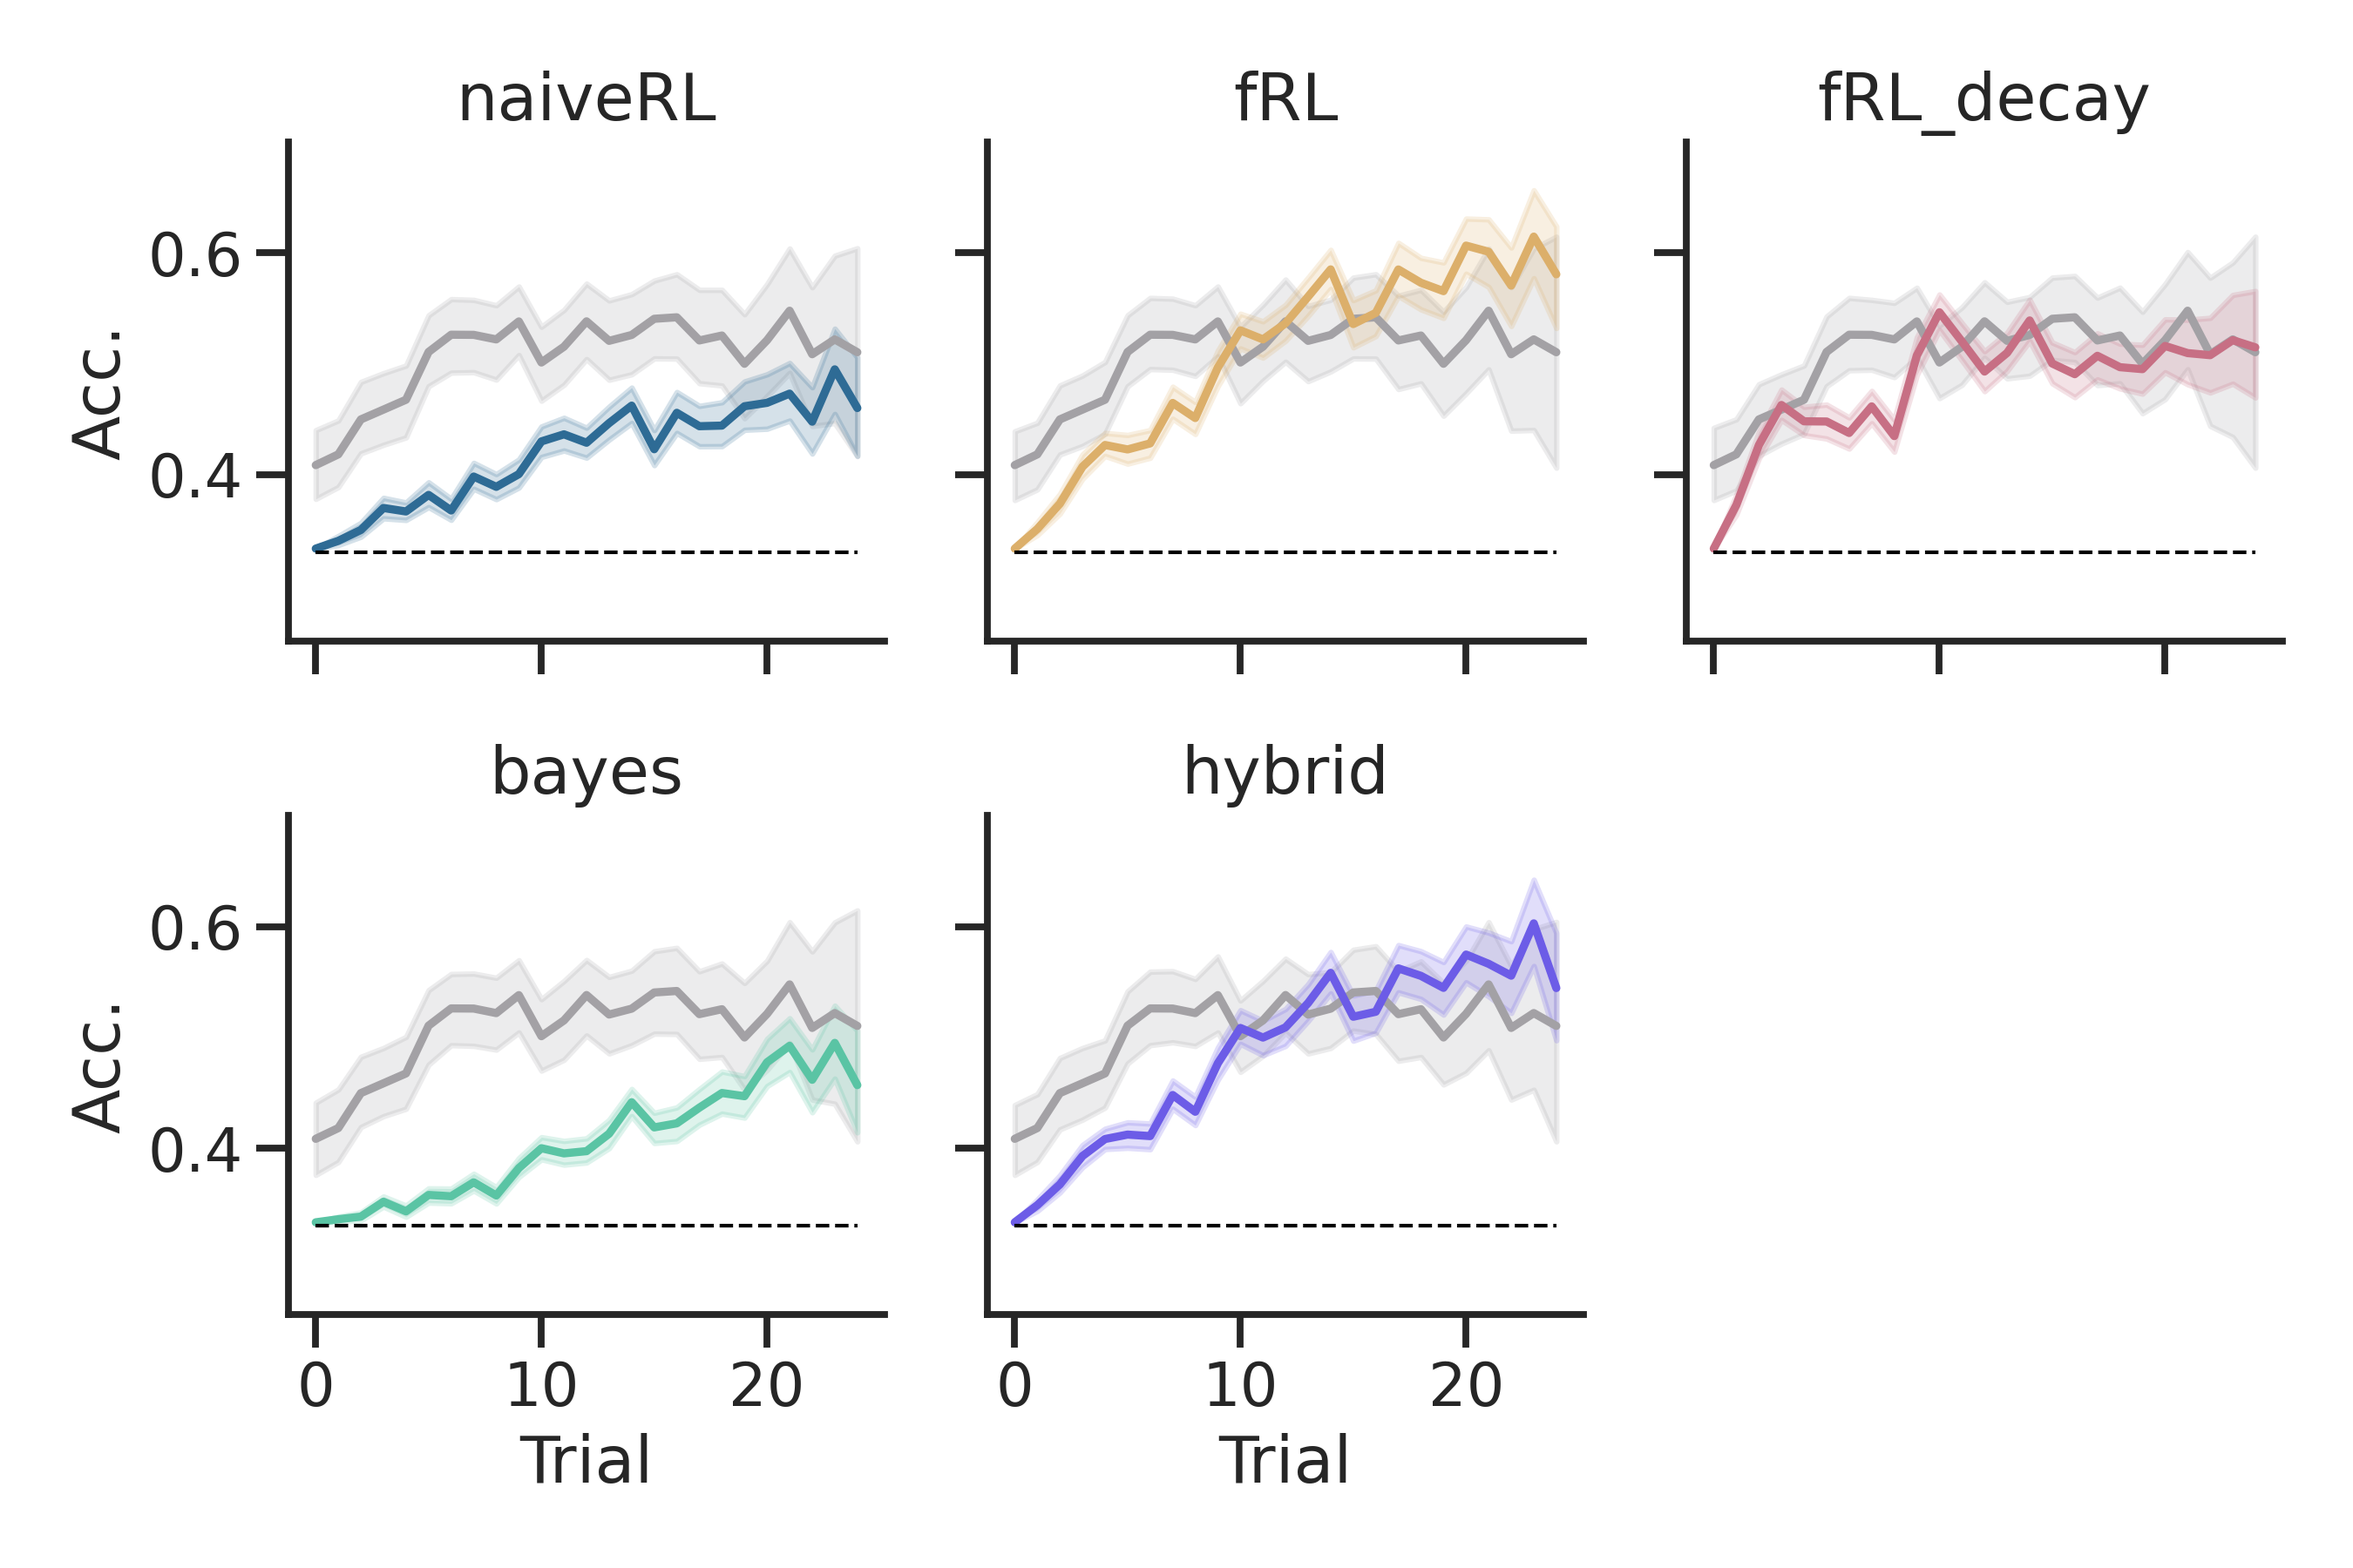
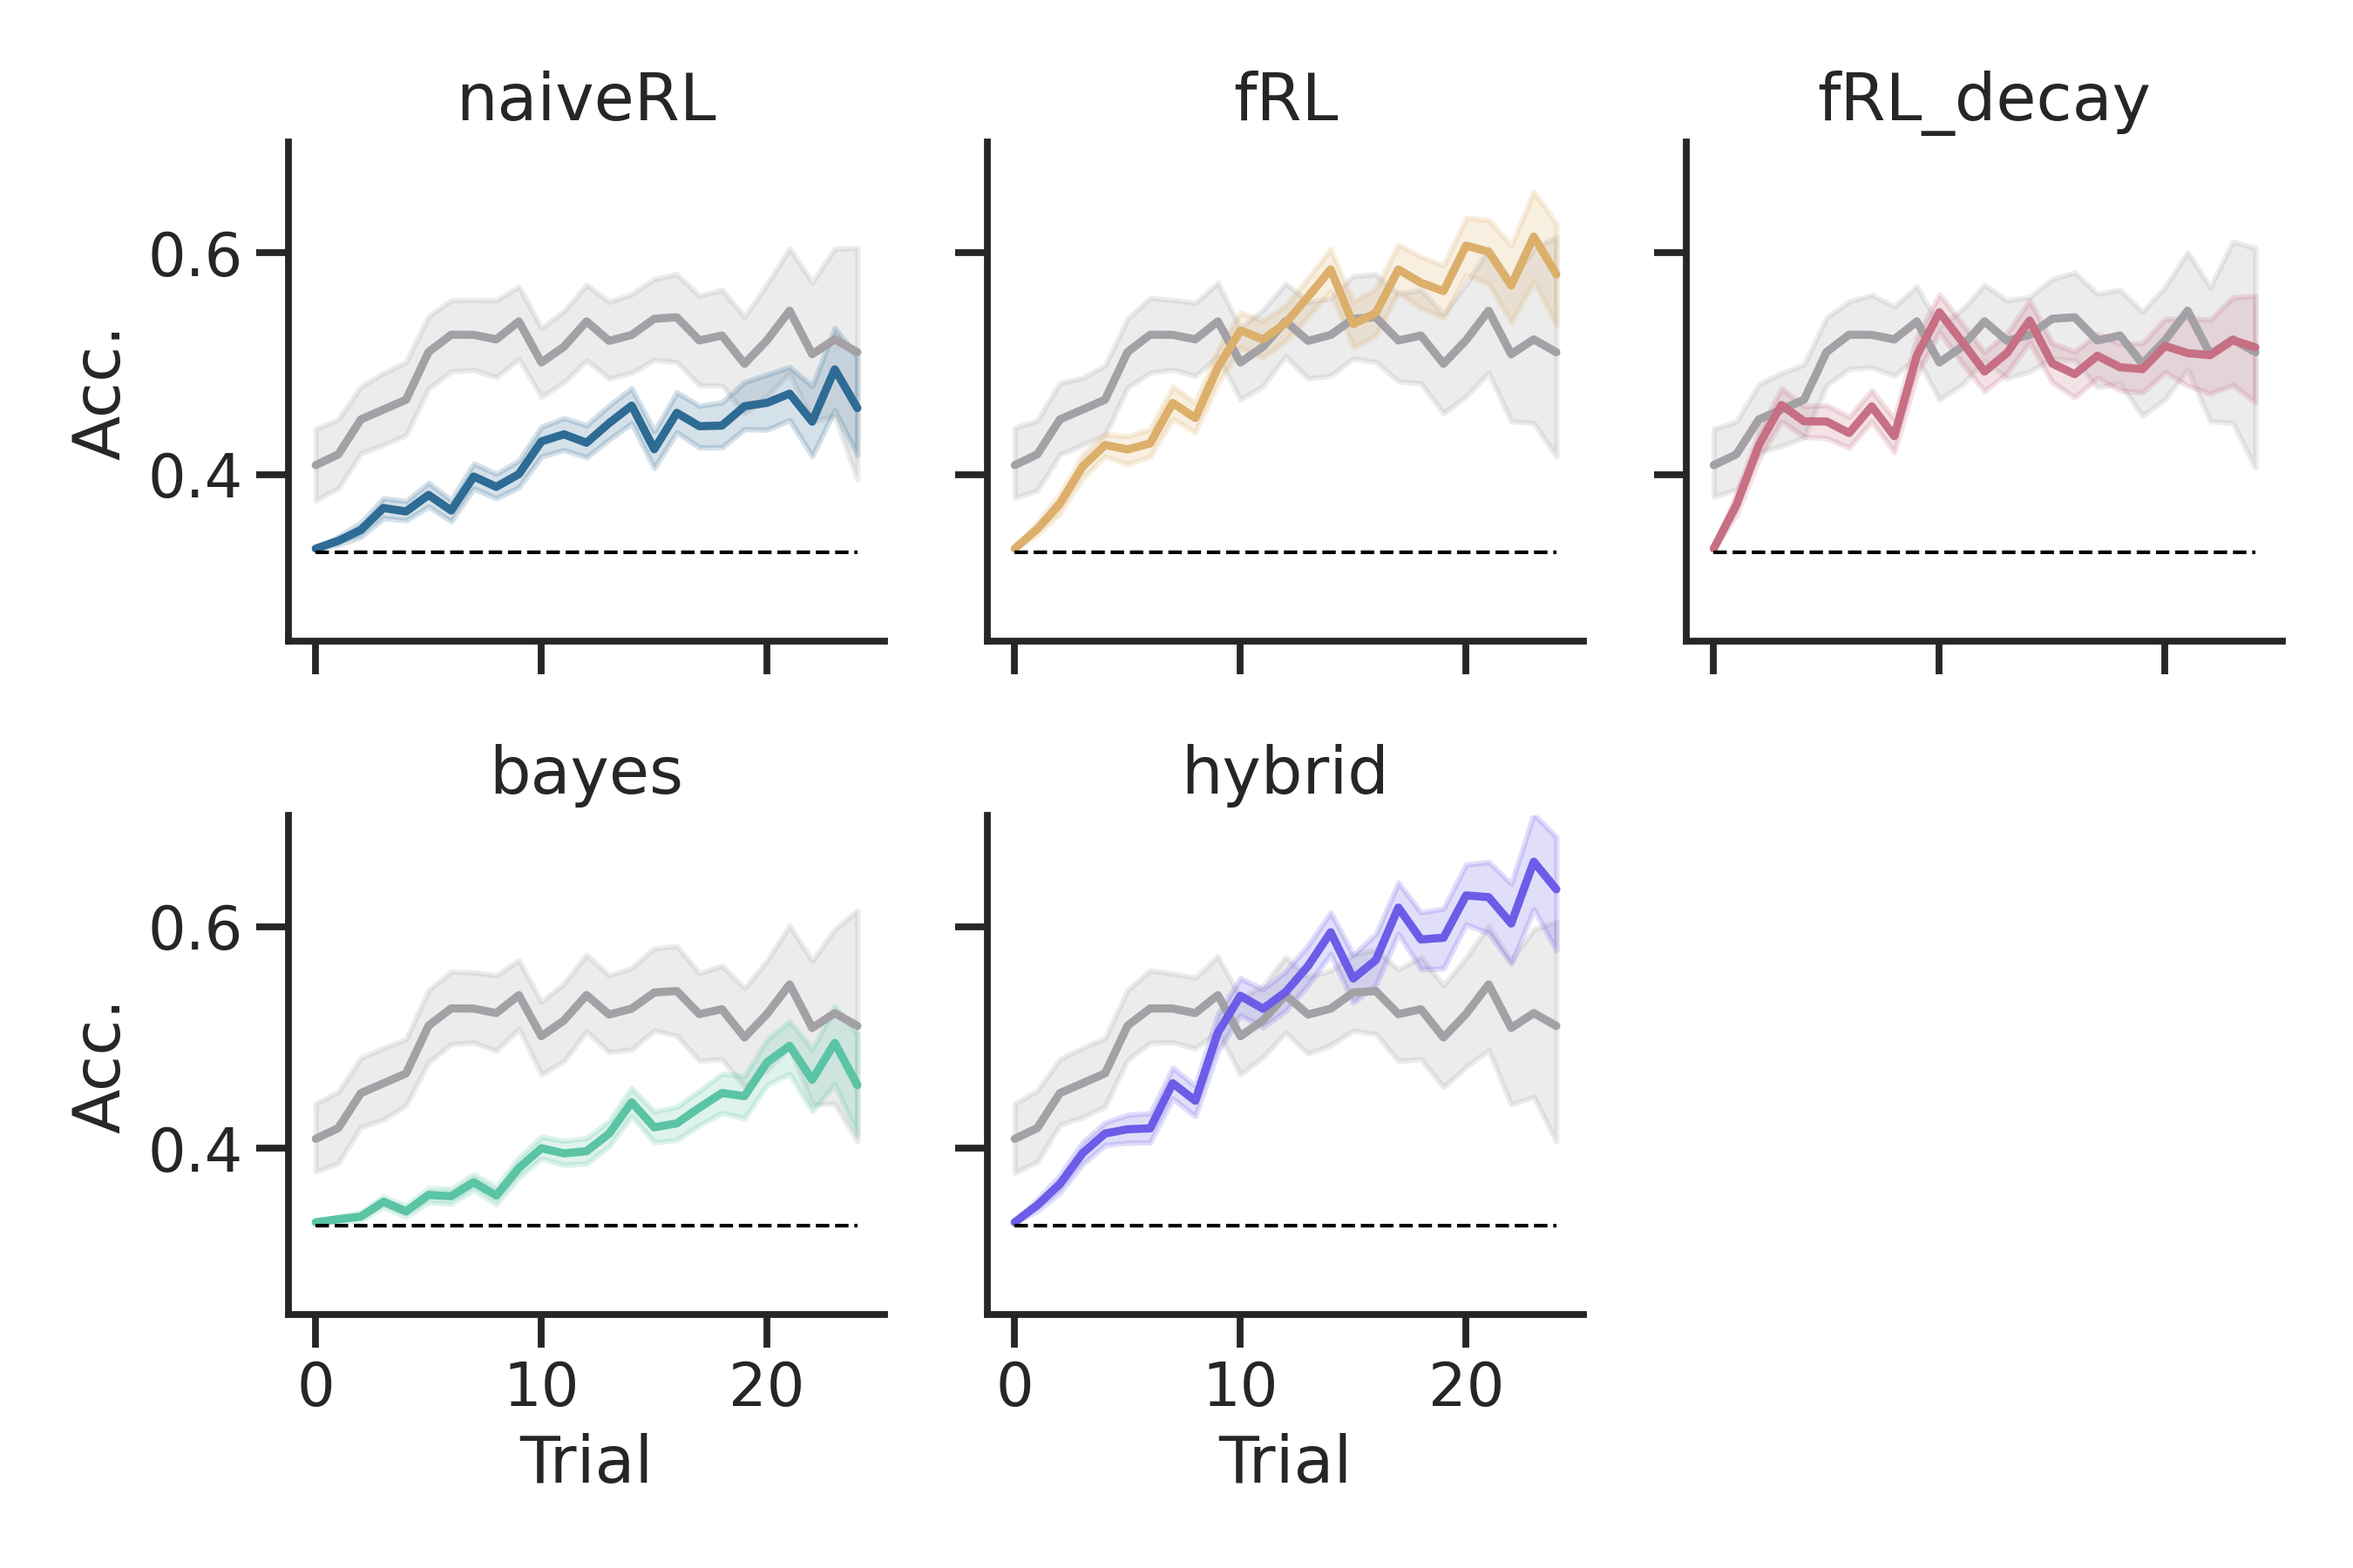
fix a bug in the hybrid model

Changed region(s): [[0.4356, 0.5289, 0.6844, 0.7467]]

diff --git a/m1_main.py b/m1_main.py
@@ -321,8 +321,9 @@ class hybrid(bayes):
 
     def learn(self):
         self.update_Bel()
+        self.update_V()
 
-    def update_Bel(self):
+    def update_V(self):
         
         # get data 
         stims, a, r = self.mem.sample('s', 'a', 'r')
